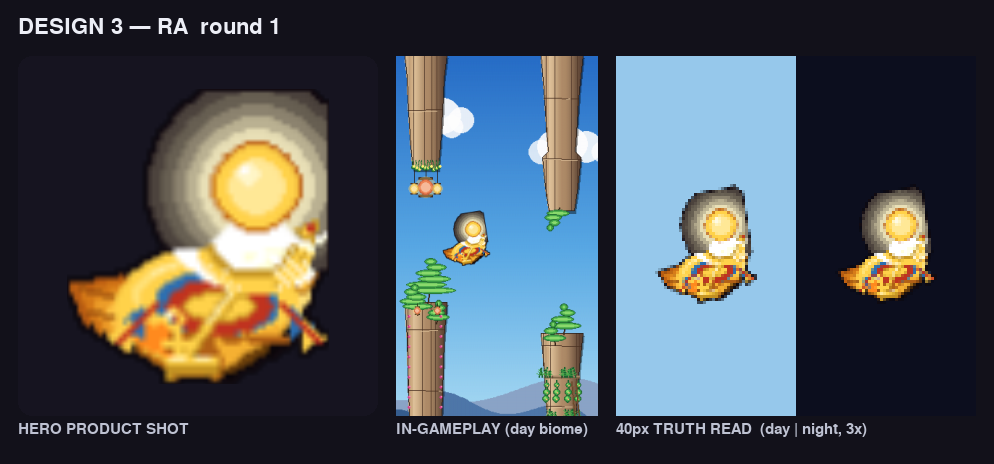
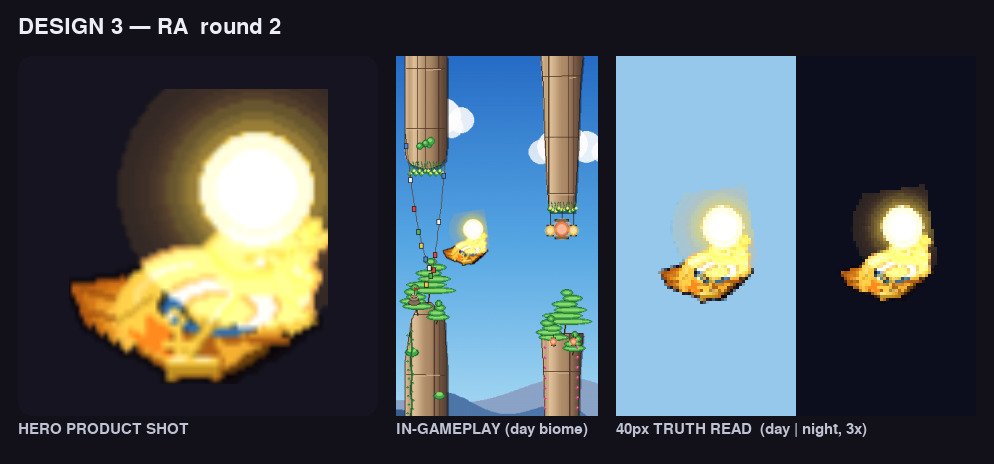
RA (pharaoh design 3) R2: warm sun corona, post-outline bloom, two-band collar
Make the solar disk glow read as warm sunlight, not grey smoke. The corona is
now drawn AFTER _add_outline so the outline mask no longer bites a dark ring
into the soft bloom; a tiered warm hue ramp (amber corona -> sun-gold -> cream)
over a smooth 11-ring quadratic falloff reads as light. Bloom radius ~30% larger
so the disk is the brightest sprite on night; an opaque amber rim ring keeps the
day edge defined. Collar simplified to two clean bands (gold + sky-blue) with a
crisp dark separator and a single gold wing-sweep per side.

Claude-Session: https://claude.ai/code/session_01HafGQfRZVDiGkQqpJPr5Cm

diff --git a/tools/pharaoh_candidates/design_3.py b/tools/pharaoh_candidates/design_3.py
@@ -27,7 +27,8 @@ import math
 import pygame
 
 from game import store_skins
-from game.store_skins import HX, HY, CROWN_Y, _poly
+from game.store_skins import HX, HY, CROWN_Y, _poly, _compose, PARROT_DY
+from game.parrot import _add_outline, _WING_ANGLES
 from game.dollar_parrot_ghost import _pal, _build_parrot_with_palette
 
 
@@ -41,9 +42,18 @@ _SOLAR_AMB_D = (190, 96, 18)
 _FALCON_RED = (192, 51, 31)        # #C0331F falcon red
 _SKY_BLUE   = (46, 111, 176)       # #2E6FB0 sky blue
 _SKY_BLUE_D = (28, 72, 122)
-_RA_GLOW    = (255, 246, 200)      # #FFF6C8 solar bloom / hero glint
+_RA_GLOW    = (255, 246, 200)      # #FFF6C8 solar bloom inner cream / hero glint
 _RA_BLACK   = (28, 22, 16)         # Eye-of-Ra liner / dark separators
 _DISK_HOT   = (255, 232, 150)      # disk inner-hot core
+
+# Tiered bloom hue ramp — a warm halo reads as SUNLIGHT; a neutral cream one
+# desaturates over bright day sky into "grey smoke". Outer rings are warm amber,
+# mid rings sun-gold, the innermost cream, so the falloff is a colour-temperature
+# gradient (warm→hot) as well as a value gradient.
+_BLOOM_AMBER = (255, 180, 74)      # #FFB44A outer warm-amber corona
+_BLOOM_GOLD  = (255, 210, 74)      # #FFD24A mid sun-gold
+_BLOOM_CREAM = (255, 246, 200)     # #FFF6C8 inner cream
+_RIM_AMBER   = (255, 138, 30)      # #FF8A1E opaque day rim ("sun's edge")
 
 
 # Warm-to-amber GOLD re-plumage of the macaw: head/chest run sun-gold, belly +
@@ -84,46 +94,57 @@ def _ra_base(angle_deg):
 
 
 def _disk_bloom(surf, cx, cy, r):
-    """Soft solar aura: stacked translucent cream rings (largest, faintest first)
-    so the disk reads as a luminous blob at 40px on night sky rather than a hard
-    edge that downscale would alias away. Drawn onto its own SRCALPHA layer and
-    blitted with additive blend so it brightens whatever sky sits behind it."""
-    pad = r + 16
+    """Soft solar CORONA, applied AFTER the outline pass so nothing traces a dark
+    ring around it (the outline mask reading the soft fringe was what made the
+    halo look like grey smoke). A warm colour-temperature falloff — amber corona
+    → sun-gold → cream — over a smooth 11-ring alpha ramp reads as sunlight, not
+    neutral fog. Sized generously so on night sky the disk is unambiguously the
+    brightest sprite; additive blend brightens whatever sky sits behind it."""
+    rad_out = int(r * 2.6) + 6      # ~30% bigger corona, sized for the night read
+    pad = rad_out + 2
     glow = pygame.Surface((pad * 2, pad * 2), pygame.SRCALPHA)
     gc = (pad, pad)
-    # Opaque-building rings (additive) so the bloom is a SOLID luminous disk that
-    # the outline pass traces as a soft cream edge, not a faint fringe that
-    # _add_outline would darken into a hard black ring.
-    for rad, a in ((r + 15, 60), (r + 12, 90), (r + 9, 130),
-                   (r + 6, 180), (r + 3, 230)):
-        pygame.draw.circle(glow, (*_RA_GLOW, a), gc, rad)
+    # 11 rings, large+faint+amber first → small+bright+cream last. Hue warms and
+    # value climbs together so the gradient is one continuous warm glow.
+    n = 11
+    for i in range(n):
+        t = i / (n - 1)                         # 0 outer → 1 inner
+        rad = int(rad_out - t * (rad_out - r + 1))
+        if t < 0.45:
+            col = _BLOOM_AMBER
+        elif t < 0.78:
+            col = _BLOOM_GOLD
+        else:
+            col = _BLOOM_CREAM
+        # Gentle quadratic ramp: very soft at the corona edge, near-solid at core.
+        a = int(34 + (255 - 34) * (t * t))
+        pygame.draw.circle(glow, (*col, a), gc, rad)
     surf.blit(glow, (cx - pad, cy - pad), special_flags=pygame.BLEND_RGBA_ADD)
 
 
 def _paint(surf, _a):
-    # ── WINGED SUN COLLAR (drawn first, under the disk/face) — a usekh collar
-    #    whose outer rows fan into stylised falcon-wing feathers. Three banded
-    #    rows (gold → sky-blue → falcon-red) arc across the upper breast and
-    #    sweep into short wing-feather points at each shoulder. Held strictly
-    #    inside the body width (x ≈ HX-22 .. HX+2) so the silhouette never grows.
+    # ── WINGED SUN COLLAR (drawn first, under the disk/face). Reduced to TWO
+    #    clean bands — a gold outer band and one cool sky-blue inner band — split
+    #    by a crisp 1px dark separator, so it survives the 40px downscale as a
+    #    legible collar rather than collapsing into a band of mud. The blue is the
+    #    SOLE cool accent that holds against all the gold. Held strictly inside the
+    #    body width (x ≈ HX-22 .. HX+2) so the silhouette never grows.
     ccx, ccy = HX - 9, HY + 12          # collar centre, on the upper chest
-    # Three concentric banded arcs as filled lens-shaped rows.
-    for rw, rh, col in ((19, 12, _SUN_GOLD), (16, 10, _SKY_BLUE),
-                        (13, 8, _FALCON_RED)):
-        pygame.draw.ellipse(surf, col, (ccx - rw, ccy - rh, rw * 2, rh + 6))
-    # Re-open the centre so the rows read as stacked bands, not a solid bib.
-    pygame.draw.ellipse(surf, _SUN_GOLD, (ccx - 9, ccy - 5, 18, 8))
-    pygame.draw.ellipse(surf, _SUN_GOLD_D, (ccx - 9, ccy - 5, 18, 8), 1)
-    # Falcon-wing feather points fanning off each shoulder — short stylised
-    # primaries in alternating gold/blue, tucked inside the body silhouette.
-    for sgn, ax in ((-1, ccx - 16), (1, ccx + 14)):
-        for k, col in enumerate((_SUN_GOLD, _SKY_BLUE, _SUN_GOLD)):
-            fx = ax + sgn * k * 3
-            fy = ccy - 1 + k * 3
-            _poly(surf, col, [(fx, fy - 3), (fx + sgn * 5, fy + 1),
-                              (fx, fy + 4)])
-        pygame.draw.line(surf, _FALCON_RED, (ax, ccy - 2),
-                         (ax + sgn * 9, ccy + 7), 2)
+    # Gold outer band, then a 1px dark separator, then the sky-blue inner band.
+    pygame.draw.ellipse(surf, _SUN_GOLD, (ccx - 19, ccy - 12, 38, 18))
+    pygame.draw.ellipse(surf, _RA_BLACK, (ccx - 15, ccy - 9, 30, 15))
+    pygame.draw.ellipse(surf, _SKY_BLUE, (ccx - 14, ccy - 8, 28, 14))
+    # Re-open the centre so the two rows read as bands, not a solid bib, and the
+    # dark chin-line re-establishes value contrast so the collar reads as a collar.
+    pygame.draw.ellipse(surf, _RA_BLACK, (ccx - 9, ccy - 5, 18, 9))
+    pygame.draw.ellipse(surf, _SUN_GOLD, (ccx - 8, ccy - 4, 16, 8))
+    # One short clean gold wing-sweep off each shoulder (replaces the muddy
+    # per-feather poly fan) — a single stylised falcon-wing flick per side.
+    for sgn, ax in ((-1, ccx - 17), (1, ccx + 15)):
+        _poly(surf, _SUN_GOLD,
+              [(ax, ccy - 4), (ax + sgn * 8, ccy + 2), (ax + sgn * 2, ccy + 5)])
+        pygame.draw.line(surf, _SUN_GOLD_D, (ax, ccy - 4),
+                         (ax + sgn * 8, ccy + 2), 1)
 
     # ── WAS-SCEPTER + ANKH slung diagonally in the near wing (over the body,
     #    inside the silhouette). A gold forked-base staff with a stylised animal
@@ -179,14 +200,14 @@ def _paint(surf, _a):
     pygame.draw.line(surf, _RA_BLACK, (ex - 2, ey + 4), (ex - 1, ey + 8), 2)
     pygame.draw.line(surf, _RA_BLACK, (ex - 1, ey + 8), (ex + 2, ey + 8), 1)
 
-    # ── SOLAR DISK (the hero) crowning the head, above CROWN_Y. Soft cream bloom
-    #    first (so the disk sits in a halo), then a coiled gold uraeus cobra
-    #    ringing the lower disk, then the disk itself with a hot inner core and a
-    #    bright top glint so it reads as a tiny sun — the brightest sprite on
-    #    screen at 40px, on day AND night.
+    # ── SOLAR DISK (the hero) crowning the head, above CROWN_Y. The soft additive
+    #    corona is applied LATER (post-outline, in the getter) so no dark ring bites
+    #    it; here we draw the solid disk + a coiled gold uraeus cobra + an OPAQUE
+    #    warm-amber RIM ring just outside the disk. That rim gives the sun a defined
+    #    warm edge against bright blue day sky even before the soft corona, so the
+    #    read is "sun with corona", not "disk with dirty fog".
     dcx, dcy = HX, CROWN_Y - 8         # disk centre, lifted clear of the crown
     dr = 11
-    _disk_bloom(surf, dcx, dcy, dr)
 
     # Coiled gold uraeus cobra wrapping the base of the disk — a low arc of coil
     # with a reared hood + head at the front, so it reads as a cobra ringing the
@@ -205,7 +226,7 @@ def _paint(surf, _a):
     pygame.draw.circle(surf, _FALCON_RED, (hx0 + 4, hy0), 1)
 
     # The disk: amber rim → gold body → hot core → cream top glint, so it has the
-    # solar value ramp that makes it glow rather than read flat.
+    # solar value ramp that makes it glow rather than read flat. (KEEP — the win.)
     pygame.draw.circle(surf, _SOLAR_AMB, (dcx, dcy), dr)
     pygame.draw.circle(surf, _SUN_GOLD, (dcx, dcy), dr - 1)
     pygame.draw.circle(surf, _DISK_HOT, (dcx, dcy), dr - 4)
@@ -213,6 +234,48 @@ def _paint(surf, _a):
     pygame.draw.circle(surf, (255, 255, 255), (dcx - 3, dcy - 4), 1)
     # A faint amber rim-line keeps the disk edge crisp against a bright day sky.
     pygame.draw.circle(surf, _SOLAR_AMB_D, (dcx, dcy), dr, 1)
+    # OPAQUE warm-amber rim ring just OUTSIDE the disk — the sun's defined warm
+    # edge against bright blue, so day stays legible before the soft corona lands.
+    rim = pygame.Surface(surf.get_size(), pygame.SRCALPHA)
+    pygame.draw.circle(rim, (*_RIM_AMBER, 180), (dcx, dcy), dr + 2, 2)
+    surf.blit(rim, (0, 0))
 
 
-build = store_skins._make_skin(_paint, base_fn=_ra_base)
+# Disk anchor in COMPOSITE space (matches _paint), so the getter can lay the soft
+# corona down AFTER the outline pass without re-deriving geometry.
+_DISK_CX = HX
+_DISK_CY = (CROWN_Y - 8)
+_DISK_R  = 11
+
+
+def build_frame(wing_angle_deg):
+    """Compose body + costume, run the house outline, THEN add the soft solar
+    corona on top. Keeping the bloom out of the outline mask is what stops the
+    dark ring that made the halo read as grey smoke."""
+    comp = _add_outline(_compose(wing_angle_deg, _paint, base_fn=_ra_base))
+    # _add_outline pads by 2px, so the disk anchor shifts by that pad.
+    _disk_bloom(comp, _DISK_CX + 2, _DISK_CY + 2, _DISK_R)
+    return comp
+
+
+def _ra_getter():
+    # RA needs the corona applied post-outline, so it can't use the generic
+    # body→paint→outline order in _make_skin; this mirrors the viking getter.
+    state = {"frames": None, "rot": {}}
+
+    def getter(frame_idx, tilt_deg):
+        if state["frames"] is None:
+            state["frames"] = [build_frame(a) for a in _WING_ANGLES]
+        frames = state["frames"]
+        frame_idx %= len(frames)
+        key = (frame_idx, int(round(tilt_deg / 3.0)) * 3)
+        s = state["rot"].get(key)
+        if s is None:
+            s = pygame.transform.rotozoom(frames[frame_idx], key[1], 1.0)
+            state["rot"][key] = s
+        return s
+
+    return getter
+
+
+build = _ra_getter()

diff --git a/tools/pharaoh_candidates/render_design_3.py b/tools/pharaoh_candidates/render_design_3.py
@@ -14,7 +14,7 @@ from tools import ninja_render
 from tools.pharaoh_candidates.design_3 import build
 
 OUT = "docs/store_redesign/costume/pharaoh/design_3/round_1.png"
-TITLE = "DESIGN 3 — RA  round 1"
+TITLE = "DESIGN 3 — RA  round 2"
 
 
 def _label(surf, text, x, y, size=18, color=(236, 238, 246)):
